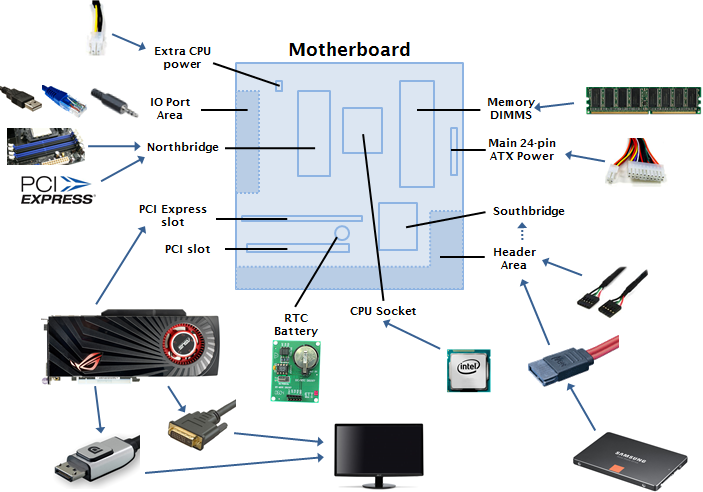
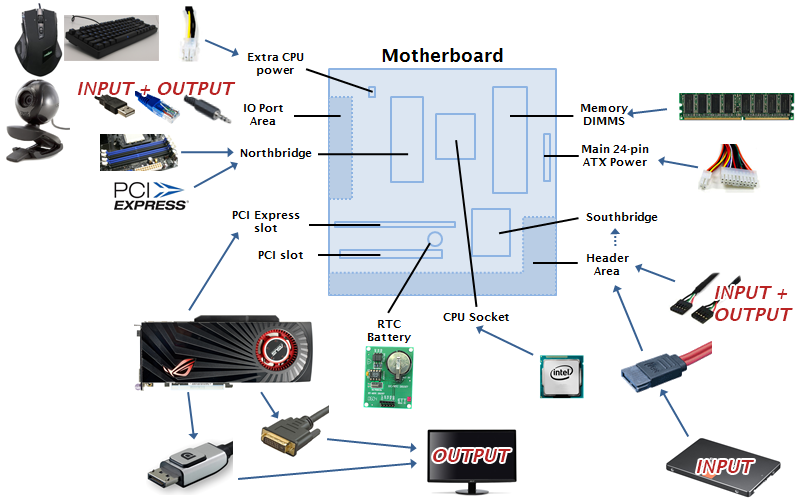
modified 2.1 image, 9.1 + 18.1 work
- The computer diagram in assignmetn 2.1 has been changed as one of
  minor improvements required by BTEC inspectors, who are time-wasting
  wankstains
- The 9.1 and 18.1 assignments have seen some work too

diff --git a/markdown/09.1.md b/markdown/09.1.md
@@ -1,13 +1,49 @@
 # Types of Networks [P1]
 
+## Network Layouts
+
 <!--[INCLUDE] markdown/ext/09.1-network-types.md -->
 
 ## Communication Standards
 
-As briefly mentioned before, there are software standards used to ensure that communication between hardware and software developed by different organisations is successful. Examples of protocol standards used in each of the network models are given.
+As briefly mentioned before, there are software standards used to ensure that communication between hardware and software developed by different organisations is successful. Examples of protocol standards used in each of the network models are given below.
 
-**Bluetooth** was initially specified by the IEEE 802.15.1 documentation and now maintained by the Bluetooth Special Interest Group, or SIG. The protocol allows mobile devices and peripherals to communicate over short distances, and is typically used for low- to zero-configuration applications. Bluetooth enabled smartphones can share files when paired using the protocol, and it can also be used to connect ...
+PANs most often use the **Bluetooth** standard, initially specified by the IEEE 802.15.1 documentation and now maintained by the Bluetooth Special Interest Group, or SIG. The protocol allows mobile devices and peripherals to communicate over short distances, and is typically used for low- to zero-configuration applications. Bluetooth enabled smartphones can share files when paired using the protocol, and it can also be used to connect wireless computer peripherals to a USB transceiver. Bluetooth uses low-power radio waves at a frequency of 2.4 GHz, and can typically transmit within a range of about 10m. Other standards designed to enable personal area networks are defined in the standards 802.1.1 to 802.1.6.
+
+Wired LANs are most often built using the **Ethernet** protocol to connect several clients, servers, switches and routers together. This protocol is defined by the IEEE 802.3 working group. The protocol was designed to succeed other protocols such as token ring and and ARCNET, which are not able to support modern network bandwidth and speed requirements. The Ethernet protocol typically uses Category 5 or 6 cabling, commonly referred to as Cat 5 and Cat 6, with 8P8C (eight-position eight-contact) connectors at each end. These connectors are often referred to as RJ45 connectors, and the completed cable an Ethernet or patch cable. The Ethernet protocol covers software as well as hardware, specifying how data packets should be encoded and parsed. The Ethernet protocol aims to prevent packet collisions in a network using CSMA/CD, or Carrier Sense Multiple Access with collision Detection, which involves listening on a cable for existing connections before transmitting data. A 32-bit jamming signal can be transmitted by a network node to ask others to stop transmitting data.
+
+Wireless LANs, or WLANs, most often use the **Wi-Fi** standard to transmit data. This protocol uses radio waves to send and receive data without the need for wires, and is most commonly used to create wireless internet access points in homes, workplaces and public areas. The Wi-Fi standard is defined in the IEEE 802.11 set of specifications, and is available in several generations. The different version of the protocol are identified with a suffix letter; either *-1997*, *a*, *b*, *g*, *-2007*, *n*, *-2012* or *ac*. Other identifiers used include *af*, *ai* and *ax*, but these standards are not in common use. Wi-Fi signals are broadcast as radio waves, with an unobstructed range of around 100m, and usually assume a frequency of 2.4GHz or, more recently, 5GHz. 3.6GHz and 60GHz are also known to have been used. Many wireless hotspots are secured with WEP or WPA password-protection and encryption, the former of which is now a deprecated standard.
+
+MANs, being technologically very similar to WANs, use the same protocols as these networks.
+
+WANs have used a number of different protocols throughout time, with Point-to-Point Protocol over Ethernet, or PPPoE, currently the most common. This allows an Ethernet connection to be carried by a copper or fibre connection to an ISP's PPPoE server. The PPP protocol is standardised by the [RFC 1661](http://tools.ietf.org/html/rfc1661) document, and PPPoE by the RFCs [2516](http://tools.ietf.org/html/rfc2516), [3817](http://tools.ietf.org/html/rfc3817), [4638](http://tools.ietf.org/html/rfc4638) and [4938](http://tools.ietf.org/html/rfc4938). PPP is considered a layer 2 (data-link layer) protocol in the Open Systems Interconnection, or OSI, networking model. Before the PPP protocol was standardised and in common use, the Frame Relay protocol saw frequent use.
+
+## Application Layer
+
+There are a series of protocols used within the TCP/IP protocols considered to be application-layer. All services utilising the web conform to the standards of one or more application layer protocols. It is possible to design one's own protocol for a particular application, and assign it a standard port number. The protocols used in the transmission of an email are explained below.
+
+Firstly, the email will travel from the source client to an SMTP, or Simple Mail Transfer Protocol, server. Credentials are often required to use an SMTP server, and the servers are usually provided by mail services such as Gmail and Outlook.com. The SMTP server also does not have to be related to the sender's address; one could use Google SMPT servers to send mail from an email address on their own domain.
+
+The message then travels through the internet to another SMTP server, identified as the server responsible for the email address. For instance, if an email was sent to `jen@outlook.com`, `smtp-mail.outlook.com` would be found. The email would be sent to this server, which would forward it to the next server via IMAP or POP standards.
+
+An IMAP (Internet Message Access Protocol) or POP (Post-Office Protocol) server would receive the email, and place it in the correct inbox. These two protocols work in slightly different ways; although they can both be configured to minkc the other's behaviour, an IMAP server typically leaves mail on the mail server when using an email client such as Thunderbird or Outlook, whereas a POP server deletes its copy once the client has received its own. Most users prefer the behaviour of IMAP, as email messages, however old, are accessible from any computer with internet access. POP, alternatively, requires a user to have their home or work computer with them in order to access old emails. Once an email has arrived at either a POP or IMAP server, the recipient should be able to access it.
 
 # Importance of Standards and Protocols [P2]
 
+Connections within the modern internet take many different forms. The format in which data is encoded is typically defined by a standard. The IMAP and POP are examples of application-layer protocols, the latest versions of which have been defined by RFCs [3501](http://tools.ietf.org/html/rfc3501) and [3501](http://tools.ietf.org/html/rfc3501) respectively.
+
+## Function
+
+## Purpose
+
 # P2P and Client&ndash;Server Networks: A Comparison [M1]
+
+Local area network models can be sub-categorised into one of the following groups based on their design.
+
+## Peer-to-Peer
+
+A P2P network (as they are often referred to as), typically only useful at a small scale, involves each networked device being connected physically to a switch or wirelessly to an AP (access point). This allows all of the devices to communicate with one another, and can provide an internet connection if a router is connected to the switch as well. In a P2P network, each device is equal, and can act as a server to the other devices. For instance, a game server could run on one computer, and three other computers running the game client could connect to the server. This model is useful for small networks that need only offer minimal functionality, and is efficient once configured. However, when more than about eight devices must be networked together, difficulties arise. If users need to be able to use the same credentials to log in on several machines, other devices need to be freely added to and removed from the network, and users want the benefits brought by centralisation, a server is required.
+
+## Client&ndash;Server
+
+The client&ndash;server model, in contrast, has machines dedicated as servers and others as clients; a networked device will either listen for and respond to requests from other devices, or will create those requests based on user actions. Typically a physical server, or a number of them, are used to store files, login credentials and software, and to run applications such as web, mail and source-code management services. This allows, for instance, a user to us the same login credentials on any applicable device without their user profile being set up individually on each client. This is often combined with directory services, which allows users access to specific filesystem directories on the server side regardless of the client machine they're using. The use of a server makes the addition and removal of devices to and from the network much easier, with services like DHCP being used for automatic IP-address assignment becoming feasible. In a client&ndash;server network, clients are still able to act as servers, meaning functionality is not lost. Using this model is simply more efficient, easier to manage and more convenient for end users.

diff --git a/markdown/ext/09.1-network-types.md b/markdown/ext/09.1-network-types.md
@@ -1,5 +1,3 @@
-## Network Layouts
-
 A **PAN**, or a personal area network, is used from close range connections between devices. An example of a PAN network would be the Bluetooth connection established between a pair of wireless headphones and a smartphone the unit is pair with. A PAN network generally does not include more than two devices.
 
 A **LAN**, or a local area network, refers to a network of several computers connected typically via a switch. Each of the connected computers are assigned IP addresses either dynamically with DHCP or statically during configuration. The members of a LAN are able to connect to one another, enabling applications such as file sharing, printer sharing and media streaming. The management of a LAN is usually handled by a system administrator, although smaller home networks can often work effectively using only automatically configuration.
@@ -11,11 +9,3 @@ A **MAN**, or a metropolitan area network, is a WAN spread over a particular are
 A **WAN**, or a wide area network, is a network of LANs. In a similar way that a LAN consists of several end-point machines, a WAN consists of several LANs. Each LAN is assigned a global IP address that can be used to access machines on one LAN from another, granted port forwarding has been configured. The largest example of a WAN is the internet. LANs in homes, offices, educational institutions and data centres are all connected in a single WAN, allowing them to all communicate with one another.
 
 **Wireless** networks are those which use no wires, and exist at both small and large scale. For example, the 2G, 3G and 4G mobile communication networks span the majority of the globe, and provide telephone and data services to handsets within a huge area. This is thanks to the fact that a single telephone mast is able to provide coverage over as much as a 50 km-radius area, granted the signal is unobstructed. The standards &ndash; GSM, IMT-2000 and LTE respectively &ndash; dictate how data should be formatted by all compliant infrastructure; both hardware and software. This ensures maximum compatibility across nations and around the world. The protocol definitions for wireless communication are found under the IEEE 802.x series of standards, along with those for PANs and MANs.
-
-## LAN Usage Models
-
-Local area network models can also be sub-categorised into one of the following groups based on their design.
-
-A **peer-to-peer** network, typically only useful at a small scale, involves each networked device being connected physically to a switch or wirelessly to an AP (access point). This allows all of the devices to communicate with one another, and can provide an internet connection if a router is connected to the switch as well. In a P2P (as it is often referred to as) network, each device is equal, and can act as a server to the other devices. For instance, a game server could run on one computer, and three other computers running the game client could connect to the server. This model is useful for small networks that need only offer minimal functionality, and is efficient once configured. However, when more than about eight devices must be networked together, difficulties arise. If users need to be able to use the same credentials to log in on several machines, other devices need to be freely added to and removed from the network, and users want the benefits brought by centralisation, a server is required.
-
-The **client&ndash;server** model, in contrast, has machines dedicated as servers and others as clients; a networked device will either listen for and respond to requests from other devices, or will create those requests based on user actions. Typically a physical server, or a number of them, are used to store files, login credentials and software, and to run applications such as web, mail and source-code management services. This allows, for instance, a user to us the same login credentials on any applicable device without their user profile being set up individually on each client. This is often combined with directory services, which allows users access to specific filesystem directories on the server side regardless of the client machine they're using. The use of a server makes the addition and removal of devices to and from the network much easier, with services like DHCP being used for automatic IP-address assignment becoming feasible. In a client&ndash;server network, clients are still able to act as servers, meaning functionality is not lost. Using this model is simply more efficient, easier to manage and more convenient for end users.

diff --git a/markdown/18.1.md b/markdown/18.1.md
@@ -1,3 +1,17 @@
 # [M2]
 
-# [PN]
+Field | Validation Rules and Input Masks
+-|-
+The morning session starts at 7AM and finishes at midday, the afternoon session from 1PM to 6PM, and the evening session from 7PM to midnight. | `-`
+Earlier starts can be negotiated depending on the availability of limos and drivers; if customers book consecutive sessions they can negotiate with the driver as to when the hour break is taken. | `-`
+The driver's rates vary from &pound;40 to &pound;80 per session and their wages are paid by the firm each month. | `>=40 And <=80`
+The first time customers make a booking they are given a client ID which consists of the first three letters of their surname plus a four figure number. Customers quote their ID when they make further bookings. Regular customers can negotiate discounts. | `>LLL0000!`
+Date of session | `>=Date() And <Date()+90`
+Number of passengers | `>=1 And <=20`
+Date booking made | `Date()`
+Payment made | `>=0`
+Postcode | `>LL09\ 0LL!`
+Customer and driver titles | `"Mr." Or "Mrs." Or "Ms." Or "Miss" Or "Dr."`
+Driver NIN | `>LL000000?!`
+Sessions | `"M" Or "A" Or "E"`
+Driver ID in Sessions table can be a lookup | `-`
